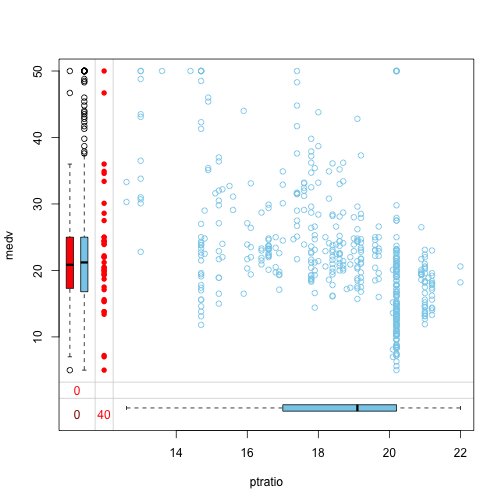
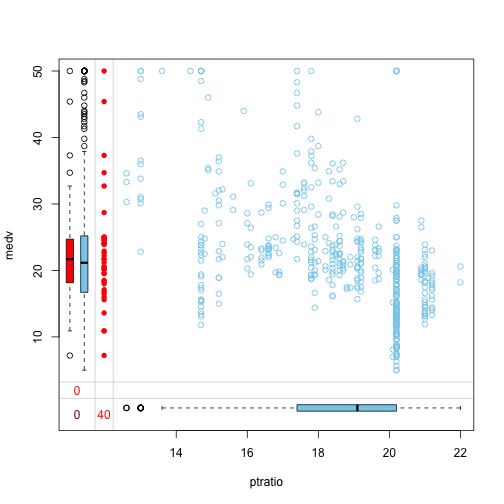
added another reference

diff --git a/ds-missing.html b/ds-missing.html
@@ -52,7 +52,7 @@
 </ul>
 </div>
 </section>
-<h2 id="미국대선-여론조사-presidential-election">1. 미국대선 여론조사 <a href="#fn1" class="footnoteRef" id="fnref1"><sup>1</sup></a></h2>
+<h2 id="미국대선-여론조사-presidential-election-why-trump">1. 미국대선 여론조사 <a href="#fn1" class="footnoteRef" id="fnref1"><sup>1</sup></a> <a href="#fn2" class="footnoteRef" id="fnref2"><sup>2</sup></a></h2>
 <p>제45대 미국 대통령을 선출하는 선거에서 많은 언론에서 예측한 바와 다르게 공화당 도널드 트럼프 후보가 민주당 힐러리 클린턴 후보를 누르고 당선되었다. 이를 두고 트럼프 후보 당선을 정확히 예측한 인공지능(AI) 사례를 들며 기존 예측기법에 대한 문제점 제기 및 새로운 시대의 도래를 언급하고 있다. 이에 앞서 지금과 동일한 상황이 미국에서 여러번 있어와서 새삼스러운 것은 아니다.</p>
 <ul>
 <li>1916년 대선: 우편 설문조사를 바탕으로 민주당 우드로 윌슨 후보 당선 예측한
@@ -91,7 +91,7 @@
 <li>마지막으로 파악된 결측정보와 적절히 인코딩되어 컴퓨터에 저장된 결측값을 자료형에 맞춰 알고리즘을 적용하여 결측값을 처리한다.</li>
 </ol>
 <p><img src="fig/ds-missing-value-strategy.png" alt="결측값 대체 프로세스" width="97%" /></p>
-<h2 id="결측값-식별과-현황파악-missing-value-treatment-identify-missing-value">2. 결측값 식별과 현황파악 <a href="#fn2" class="footnoteRef" id="fnref2"><sup>2</sup></a> <a href="#fn3" class="footnoteRef" id="fnref3"><sup>3</sup></a></h2>
+<h2 id="결측값-식별과-현황파악-missing-value-treatment-identify-missing-value">2. 결측값 식별과 현황파악 <a href="#fn3" class="footnoteRef" id="fnref3"><sup>3</sup></a> <a href="#fn4" class="footnoteRef" id="fnref4"><sup>4</sup></a></h2>
 <p><code>mlbench</code> 보스톤 주택가격 데이터셋을 기본으로 결측값 관련 학습 내용에 대한 실습을 진행한다.</p>
 <div class="sourceCode"><pre class="sourceCode r"><code class="sourceCode r">## 실습데이터
 <span class="co"># install.packages(&quot;mlbench&quot;)</span>
@@ -116,21 +116,21 @@ BostonHousing[<span class="kw">sample</span>(<span class="dv">1</span>:<span cla
 </code></pre>
 <div class="sourceCode"><pre class="sourceCode r"><code class="sourceCode r"><span class="kw">apply</span>(BostonHousing, <span class="dv">1</span>, check_missing_value) %&gt;%<span class="st"> </span><span class="kw">head</span>(<span class="dv">20</span>)</code></pre></div>
 <pre class="output"><code>       1        2        3        4        5        6        7        8 
-0.000000 0.000000 0.000000 0.000000 0.000000 7.142857 0.000000 0.000000 
+0.000000 0.000000 7.142857 0.000000 0.000000 0.000000 0.000000 0.000000 
        9       10       11       12       13       14       15       16 
-0.000000 0.000000 0.000000 7.142857 0.000000 0.000000 0.000000 7.142857 
+0.000000 0.000000 0.000000 0.000000 0.000000 0.000000 7.142857 0.000000 
       17       18       19       20 
-0.000000 0.000000 7.142857 0.000000 
+0.000000 0.000000 0.000000 0.000000 
 </code></pre>
 <h3 id="mice-vim-팩키지">2.2. <code>mice</code>, <code>VIM</code> 팩키지</h3>
 <p><code>mice</code> 팩키지를 사용해서 <code>md.pattern</code> 함수를 사용해서 “ptratio” 변수에 40개 주입한 <code>NA</code> 결측값을 확인해본다.</p>
 <div class="sourceCode"><pre class="sourceCode r"><code class="sourceCode r"><span class="kw">suppressWarnings</span>(<span class="kw">suppressMessages</span>(<span class="kw">library</span>(mice)))
 <span class="kw">md.pattern</span>(BostonHousing)</code></pre></div>
 <pre class="output"><code>    crim zn indus chas nox rm age dis tax b lstat medv rad ptratio   
-432    1  1     1    1   1  1   1   1   1 1     1    1   1       1  0
- 34    1  1     1    1   1  1   1   1   1 1     1    1   0       1  1
- 34    1  1     1    1   1  1   1   1   1 1     1    1   1       0  1
-  6    1  1     1    1   1  1   1   1   1 1     1    1   0       0  2
+430    1  1     1    1   1  1   1   1   1 1     1    1   1       1  0
+ 36    1  1     1    1   1  1   1   1   1 1     1    1   0       1  1
+ 36    1  1     1    1   1  1   1   1   1 1     1    1   1       0  1
+  4    1  1     1    1   1  1   1   1   1 1     1    1   0       0  2
        0  0     0    0   0  0   0   0   0 0     0    0  40      40 80
 </code></pre>
 <p>혹은 <code>VIM</code> 팩키지를 활용하여 결측값을 시각화하는 것도 좋다. 결측값은 빨강색(<code>red</code>)로 설정하여 각변수별로 결측값에 대한 현황을 파악하기 쉽게 도식화했다.</p>
@@ -180,16 +180,16 @@ aggr_plot &lt;-<span class="st"> </span><span class="kw">aggr</span>(BostonHousi
 <span class="kw">suppressWarnings</span>(<span class="kw">suppressMessages</span>(<span class="kw">library</span>(DMwR)))
 <span class="kw">suppressWarnings</span>(<span class="kw">suppressMessages</span>(<span class="kw">library</span>(dplyr)))
 <span class="kw">impute</span>(BostonHousing$ptratio, mean) %&gt;%<span class="st"> </span>head <span class="co"># 평균으로 대체</span></code></pre></div>
-<pre class="output"><code>   1    2    3    4    5    6 
-15.3 17.8 17.8 18.7 18.7 18.7 
+<pre class="output"><code>        1         2         3         4         5         6 
+ 15.30000  17.80000 18.45858*  18.70000  18.70000  18.70000 
 </code></pre>
 <div class="sourceCode"><pre class="sourceCode r"><code class="sourceCode r"><span class="kw">impute</span>(BostonHousing$ptratio, median) %&gt;%<span class="st"> </span>head  <span class="co"># 중위수로 대체</span></code></pre></div>
-<pre class="output"><code>   1    2    3    4    5    6 
-15.3 17.8 17.8 18.7 18.7 18.7 
+<pre class="output"><code>    1     2     3     4     5     6 
+ 15.3  17.8 19.1*  18.7  18.7  18.7 
 </code></pre>
 <div class="sourceCode"><pre class="sourceCode r"><code class="sourceCode r"><span class="kw">impute</span>(BostonHousing$ptratio, <span class="dv">20</span>) %&gt;%<span class="st"> </span>head  <span class="co"># 특정 값으로 대체</span></code></pre></div>
-<pre class="output"><code>   1    2    3    4    5    6 
-15.3 17.8 17.8 18.7 18.7 18.7 
+<pre class="output"><code>    1     2     3     4     5     6 
+ 15.3  17.8 20.0*  18.7  18.7  18.7 
 </code></pre>
 <div class="sourceCode"><pre class="sourceCode r"><code class="sourceCode r"><span class="co"># 혹은 팩키지를 사용하지 않고 직접 코드를 작성해서 작업</span>
 BostonHousing$ptratio[<span class="kw">is.na</span>(BostonHousing$ptratio)] &lt;-<span class="st"> </span><span class="kw">mean</span>(BostonHousing$ptratio, <span class="dt">na.rm =</span> T) </code></pre></div>
@@ -210,7 +210,7 @@ actuals &lt;-<span class="st"> </span>original$ptratio[<span class="kw">is.na</s
 predicteds &lt;-<span class="st"> </span>knnOutput[<span class="kw">is.na</span>(BostonHousing$ptratio), <span class="st">&quot;ptratio&quot;</span>]
 <span class="kw">regr.eval</span>(actuals, predicteds)</code></pre></div>
 <pre class="output"><code>       mae        mse       rmse       mape 
-0.71330534 1.02110229 1.01049606 0.04105653 
+1.04979050 2.11100951 1.45293135 0.06215525 
 </code></pre>
 <ul>
 <li><code>knn</code> 대체 기법은 범주형 자료의 경우 적용에 한계가 있다. 이런 경우 <code>rpart</code>, <code>mice</code> 팩키지를 활용한다.</li>
@@ -268,7 +268,7 @@ miceMod &lt;-<span class="st"> </span><span class="kw">mice</span>(BostonHousing
 <h3 id="결측값-처리-방법에-따른-성능-평가-연속형-변수-ptratio">4.1. 결측값 처리 방법에 따른 성능 평가 – 연속형 변수 <code>ptratio</code></h3>
 <p>다양한 결측값 처리 방법에 따른 성능 차이를 비교하는 것이 왜 고급 결측값 처리 방법을 활용해야 하는 근거도 된다.</p>
 <p>먼저, 연속형 변수의 경우 다양한 결측값 처리 방법에 따른 성능의 차이를 비교해보자. “ptratio” 변수는 연속형 변수로 506개 변수중 50개 즉 10%를 결측값, <code>NA</code>로 치환한다.</p>
-<p>평균과 중위수를 결측값 10%를 채워넣을 경우 중위수를 채워넣은 것이 <code>mape</code>를 봤을 때 대동소이하다. <a href="#fn4" class="footnoteRef" id="fnref4"><sup>4</sup></a></p>
+<p>평균과 중위수를 결측값 10%를 채워넣을 경우 중위수를 채워넣은 것이 <code>mape</code>를 봤을 때 대동소이하다. <a href="#fn5" class="footnoteRef" id="fnref5"><sup>5</sup></a></p>
 <div class="sourceCode"><pre class="sourceCode r"><code class="sourceCode r"><span class="kw">data</span>(BostonHousing)
 original &lt;-<span class="st"> </span>BostonHousing
 BostonHousing[<span class="kw">sample</span>(<span class="dv">1</span>:<span class="kw">nrow</span>(BostonHousing), <span class="dv">50</span>), <span class="st">&quot;ptratio&quot;</span>] &lt;-<span class="st"> </span><span class="ot">NA</span>
@@ -277,18 +277,18 @@ actuals_ptratio &lt;-<span class="st"> </span>original$ptratio[<span class="kw">
 ptratios_mean_pred &lt;-<span class="st"> </span><span class="kw">rep</span>(<span class="kw">mean</span>(BostonHousing$ptratio, <span class="dt">na.rm=</span>T), <span class="kw">length</span>(actuals_ptratio))
 ptratios_median_pred &lt;-<span class="st"> </span><span class="kw">rep</span>(<span class="kw">median</span>(BostonHousing$ptratio, <span class="dt">na.rm=</span>T), <span class="kw">length</span>(actuals_ptratio))
 <span class="kw">regr.eval</span>(actuals_ptratio, ptratios_mean_pred)</code></pre></div>
-<pre class="output"><code>       mae        mse       rmse       mape 
-1.49694737 3.26306427 1.80639538 0.08247334 
+<pre class="output"><code>     mae      mse     rmse     mape 
+1.915649 5.109398 2.260398 0.111088 
 </code></pre>
 <div class="sourceCode"><pre class="sourceCode r"><code class="sourceCode r"><span class="kw">regr.eval</span>(actuals_ptratio, ptratios_median_pred)</code></pre></div>
-<pre class="output"><code>       mae        mse       rmse       mape 
-1.41000000 3.19420000 1.78723250 0.08031715 
+<pre class="output"><code>      mae       mse      rmse      mape 
+1.9100000 5.4977000 2.3447175 0.1143326 
 </code></pre>
 <p>두번째 <code>knn</code> 기법을 활용한 경우 <code>mape</code>가 줄어든 것이 확인된다.</p>
 <div class="sourceCode"><pre class="sourceCode r"><code class="sourceCode r">ptratios_knn_pred &lt;-<span class="st"> </span>knnOutput[<span class="kw">is.na</span>(BostonHousing$ptratio), <span class="st">&quot;ptratio&quot;</span>]
 <span class="kw">regr.eval</span>(actuals_ptratio, ptratios_knn_pred)</code></pre></div>
 <pre class="output"><code>        mae         mse        rmse        mape 
-0.124665509 0.237991672 0.487843902 0.008235096 
+0.093756478 0.184563591 0.429608649 0.005335098 
 </code></pre>
 <p>세번째 <code>rpart</code> 기법을 활용한 경우 <code>mape</code>가 줄어든 것이 확인된다.</p>
 <div class="sourceCode"><pre class="sourceCode r"><code class="sourceCode r">ptratios_anova_mod &lt;-<span class="st"> </span><span class="kw">rpart</span>(ptratio ~<span class="st"> </span>. -<span class="st"> </span>medv, 
@@ -305,7 +305,7 @@ Warning in trues - preds: 두 객체의 길이가 서로 배수관계에 있지 
 습니다
 </code></pre>
 <pre class="output"><code>      mae       mse      rmse      mape 
-1.8597098 5.1340825 2.2658514 0.1064451 
+2.3794612 7.9673227 2.8226446 0.1417835 
 </code></pre>
 <p>네번째는 <code>rf</code> 확률숲 모형을 적용하는데 결측값 처리 전용 <code>mice</code> 팩키지를 활용한다. <code>mape</code> 값이 하향된 것이 관측된다.</p>
 <div class="sourceCode"><pre class="sourceCode r"><code class="sourceCode r"><span class="kw">library</span>(mice)
@@ -352,7 +352,7 @@ Warning in trues - preds: 두 객체의 길이가 서로 배수관계에 있지 
 습니다
 </code></pre>
 <pre class="output"><code>      mae       mse      rmse      mape 
-1.9575000 6.1777500 2.4855080 0.1132128 
+2.2475000 7.5277500 2.7436745 0.1358437 
 </code></pre>
 <h3 id="결측값-처리-방법에-따른-성능-평가-범주형-변수-rad">4.2. 결측값 처리 방법에 따른 성능 평가 – 범주형 변수 <code>rad</code></h3>
 <p>범주형 변수의 경우, 다양한 결측값 처리 방법에 따른 성능의 차이를 비교해보자. “rad” 변수는 연속형 변수로 506개 변수중 50개 즉 10%를 결측값, <code>NA</code>로 치환한다.</p>
@@ -365,7 +365,7 @@ actuals_rad &lt;-<span class="st"> </span>original$rad[<span class="kw">is.na</s
 rad_mode_pred &lt;-<span class="st"> </span><span class="kw">rep</span>(<span class="kw">names</span>(<span class="kw">sort</span>(-<span class="kw">table</span>(BostonHousing$rad)))[<span class="dv">1</span>], <span class="kw">length</span>(actuals_rad))
 
 <span class="kw">mean</span>(actuals_rad !=<span class="st"> </span>rad_mode_pred) </code></pre></div>
-<pre class="output"><code>[1] 0.64
+<pre class="output"><code>[1] 0.72
 </code></pre>
 <p>두번째로 <code>rpart</code> 의사결정나무 모형을 활용하여 결측값을 채워넣는다.</p>
 <div class="sourceCode"><pre class="sourceCode r"><code class="sourceCode r"><span class="kw">data</span>(BostonHousing)
@@ -380,7 +380,7 @@ actuals_rad &lt;-<span class="st"> </span>original$rad[<span class="kw">is.na</s
 rad_rpart_pred &lt;-<span class="st"> </span><span class="kw">as.numeric</span>(<span class="kw">colnames</span>(rad_pred)[<span class="kw">apply</span>(rad_pred, <span class="dv">1</span>, which.max)])
 
 <span class="kw">mean</span>(actuals_rad !=<span class="st"> </span>rad_rpart_pred)</code></pre></div>
-<pre class="output"><code>[1] 0.18
+<pre class="output"><code>[1] 0.22
 </code></pre>
 <p>마지막으로 <code>mice</code> 확률숲 <code>rf</code> 모형을 사용해서 결측값을 채워넣는다.</p>
 <div class="sourceCode"><pre class="sourceCode r"><code class="sourceCode r"><span class="kw">data</span>(BostonHousing)
@@ -422,15 +422,16 @@ mice_mod &lt;-<span class="st"> </span><span class="kw">mice</span>(BostonHousin
 actuals_rad &lt;-<span class="st"> </span>original$rad[<span class="kw">is.na</span>(BostonHousing$rad)]
 rad_rf_pred &lt;-<span class="st"> </span>mice_output[<span class="kw">is.na</span>(BostonHousing$rad), <span class="st">&quot;rad&quot;</span>]
 <span class="kw">mean</span>(actuals_rad !=<span class="st"> </span>rad_rf_pred)</code></pre></div>
-<pre class="output"><code>[1] 0.16
+<pre class="output"><code>[1] 0.28
 </code></pre>
 <div class="footnotes">
 <hr />
 <ol>
 <li id="fn1"><p><a href="http://www.yonhapnews.co.kr/bulletin/2016/11/10/0200000000AKR20161110146900022.HTML?input=1179m"><추왕훈의 데자뷔> 선거 여론조사의 종언, 2016-11-11</a><a href="#fnref1">↩</a></p></li>
-<li id="fn2"><p><a href="https://www.r-bloggers.com/missing-value-treatment/">R-bloggers: Missing Value Treatment</a><a href="#fnref2">↩</a></p></li>
-<li id="fn3"><p><a href="http://datascienceplus.com/imputing-missing-data-with-r-mice-package/">Imputing Missing Data with R; MICE package</a><a href="#fnref3">↩</a></p></li>
-<li id="fn4"><p>Mean absolute percentage error, 평균절대 백분율 오차. <span class="math inline">\(\mbox{M} = \frac{100}{n}\sum_{t=1}^n \left|\frac{A_t-F_t}{A_t}\right|\)</span><a href="#fnref4">↩</a></p></li>
+<li id="fn2"><p><a href="http://ilyo.co.kr/?ac=article_view&amp;entry_id=213504">미국 대선 - 트럼프 대이변은 어떻게 일어났는가</a><a href="#fnref2">↩</a></p></li>
+<li id="fn3"><p><a href="https://www.r-bloggers.com/missing-value-treatment/">R-bloggers: Missing Value Treatment</a><a href="#fnref3">↩</a></p></li>
+<li id="fn4"><p><a href="http://datascienceplus.com/imputing-missing-data-with-r-mice-package/">Imputing Missing Data with R; MICE package</a><a href="#fnref4">↩</a></p></li>
+<li id="fn5"><p>Mean absolute percentage error, 평균절대 백분율 오차. <span class="math inline">\(\mbox{M} = \frac{100}{n}\sum_{t=1}^n \left|\frac{A_t-F_t}{A_t}\right|\)</span><a href="#fnref5">↩</a></p></li>
 </ol>
 </div>
         </div>

diff --git a/ds-missing.md b/ds-missing.md
@@ -20,7 +20,9 @@ mainfont: NanumGothic
 > * 결측데이터 처리 전략을 이해한다.
 > * 결측데이터 전략에 따른 성능향상을 확인한다.
 
-## 1. 미국대선 여론조사 [^presidential-election]
+## 1. 미국대선 여론조사 [^presidential-election] [^why-trump]
+
+[^why-trump]: [미국 대선 - 트럼프 대이변은 어떻게 일어났는가](http://ilyo.co.kr/?ac=article_view&entry_id=213504)
 
 [^presidential-election]: [<추왕훈의 데자뷔> 선거 여론조사의 종언, 2016-11-11](http://www.yonhapnews.co.kr/bulletin/2016/11/10/0200000000AKR20161110146900022.HTML?input=1179m)
 
@@ -114,11 +116,11 @@ apply(BostonHousing, 1, check_missing_value) %>% head(20)
 
 ~~~{.output}
        1        2        3        4        5        6        7        8 
-0.000000 0.000000 0.000000 0.000000 0.000000 7.142857 0.000000 0.000000 
+0.000000 0.000000 7.142857 0.000000 0.000000 0.000000 0.000000 0.000000 
        9       10       11       12       13       14       15       16 
-0.000000 0.000000 0.000000 7.142857 0.000000 0.000000 0.000000 7.142857 
+0.000000 0.000000 0.000000 0.000000 0.000000 0.000000 7.142857 0.000000 
       17       18       19       20 
-0.000000 0.000000 7.142857 0.000000 
+0.000000 0.000000 0.000000 0.000000 
 
 ~~~
 
@@ -136,10 +138,10 @@ md.pattern(BostonHousing)
 
 ~~~{.output}
     crim zn indus chas nox rm age dis tax b lstat medv rad ptratio   
-432    1  1     1    1   1  1   1   1   1 1     1    1   1       1  0
- 34    1  1     1    1   1  1   1   1   1 1     1    1   0       1  1
- 34    1  1     1    1   1  1   1   1   1 1     1    1   1       0  1
-  6    1  1     1    1   1  1   1   1   1 1     1    1   0       0  2
+430    1  1     1    1   1  1   1   1   1 1     1    1   1       1  0
+ 36    1  1     1    1   1  1   1   1   1 1     1    1   0       1  1
+ 36    1  1     1    1   1  1   1   1   1 1     1    1   1       0  1
+  4    1  1     1    1   1  1   1   1   1 1     1    1   0       0  2
        0  0     0    0   0  0   0   0   0 0     0    0  40      40 80
 
 ~~~
@@ -210,8 +212,8 @@ impute(BostonHousing$ptratio, mean) %>% head # 평균으로 대체
 
 
 ~~~{.output}
-   1    2    3    4    5    6 
-15.3 17.8 17.8 18.7 18.7 18.7 
+        1         2         3         4         5         6 
+ 15.30000  17.80000 18.45858*  18.70000  18.70000  18.70000 
 
 ~~~
 
@@ -224,8 +226,8 @@ impute(BostonHousing$ptratio, median) %>% head  # 중위수로 대체
 
 
 ~~~{.output}
-   1    2    3    4    5    6 
-15.3 17.8 17.8 18.7 18.7 18.7 
+    1     2     3     4     5     6 
+ 15.3  17.8 19.1*  18.7  18.7  18.7 
 
 ~~~
 
@@ -238,8 +240,8 @@ impute(BostonHousing$ptratio, 20) %>% head  # 특정 값으로 대체
 
 
 ~~~{.output}
-   1    2    3    4    5    6 
-15.3 17.8 17.8 18.7 18.7 18.7 
+    1     2     3     4     5     6 
+ 15.3  17.8 20.0*  18.7  18.7  18.7 
 
 ~~~
 
@@ -272,7 +274,7 @@ regr.eval(actuals, predicteds)
 
 ~~~{.output}
        mae        mse       rmse       mape 
-0.71330534 1.02110229 1.01049606 0.04105653 
+1.04979050 2.11100951 1.45293135 0.06215525 
 
 ~~~
 
@@ -377,8 +379,8 @@ regr.eval(actuals_ptratio, ptratios_mean_pred)
 
 
 ~~~{.output}
-       mae        mse       rmse       mape 
-1.49694737 3.26306427 1.80639538 0.08247334 
+     mae      mse     rmse     mape 
+1.915649 5.109398 2.260398 0.111088 
 
 ~~~
 
@@ -391,8 +393,8 @@ regr.eval(actuals_ptratio, ptratios_median_pred)
 
 
 ~~~{.output}
-       mae        mse       rmse       mape 
-1.41000000 3.19420000 1.78723250 0.08031715 
+      mae       mse      rmse      mape 
+1.9100000 5.4977000 2.3447175 0.1143326 
 
 ~~~
 
@@ -408,7 +410,7 @@ regr.eval(actuals_ptratio, ptratios_knn_pred)
 
 ~~~{.output}
         mae         mse        rmse        mape 
-0.124665509 0.237991672 0.487843902 0.008235096 
+0.093756478 0.184563591 0.429608649 0.005335098 
 
 ~~~
 
@@ -445,7 +447,7 @@ Warning in (trues - preds)/trues: 두 객체의 길이가 서로 배수관계에
 
 ~~~{.output}
       mae       mse      rmse      mape 
-1.8597098 5.1340825 2.2658514 0.1064451 
+2.3794612 7.9673227 2.8226446 0.1417835 
 
 ~~~
 
@@ -523,7 +525,7 @@ Warning in (trues - preds)/trues: 두 객체의 길이가 서로 배수관계에
 
 ~~~{.output}
       mae       mse      rmse      mape 
-1.9575000 6.1777500 2.4855080 0.1132128 
+2.2475000 7.5277500 2.7436745 0.1358437 
 
 ~~~
 
@@ -550,7 +552,7 @@ mean(actuals_rad != rad_mode_pred)
 
 
 ~~~{.output}
-[1] 0.64
+[1] 0.72
 
 ~~~
 
@@ -575,7 +577,7 @@ mean(actuals_rad != rad_rpart_pred)
 
 
 ~~~{.output}
-[1] 0.18
+[1] 0.22
 
 ~~~
 
@@ -637,6 +639,6 @@ mean(actuals_rad != rad_rf_pred)
 
 
 ~~~{.output}
-[1] 0.16
+[1] 0.28
 
 ~~~
